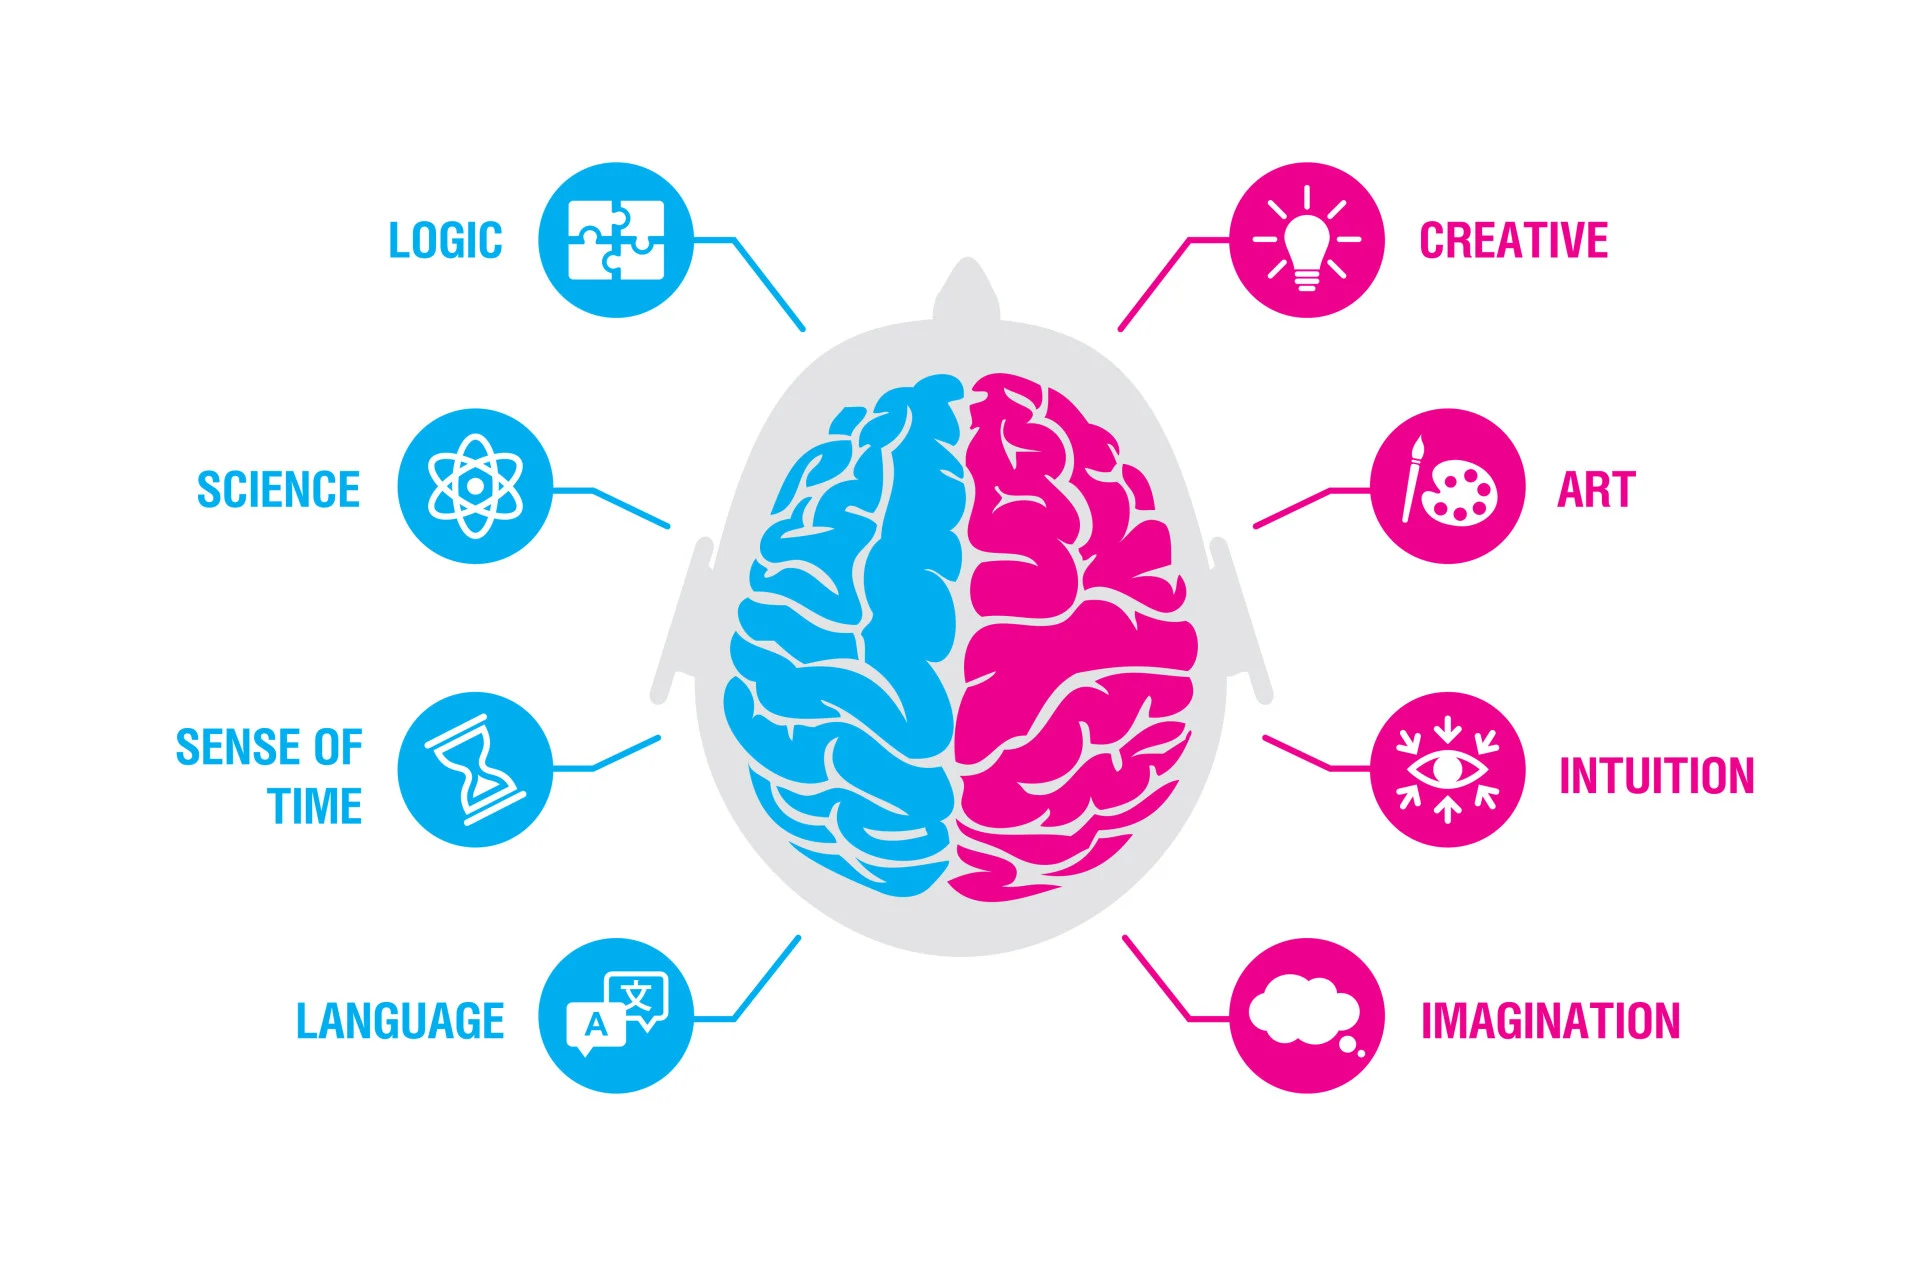
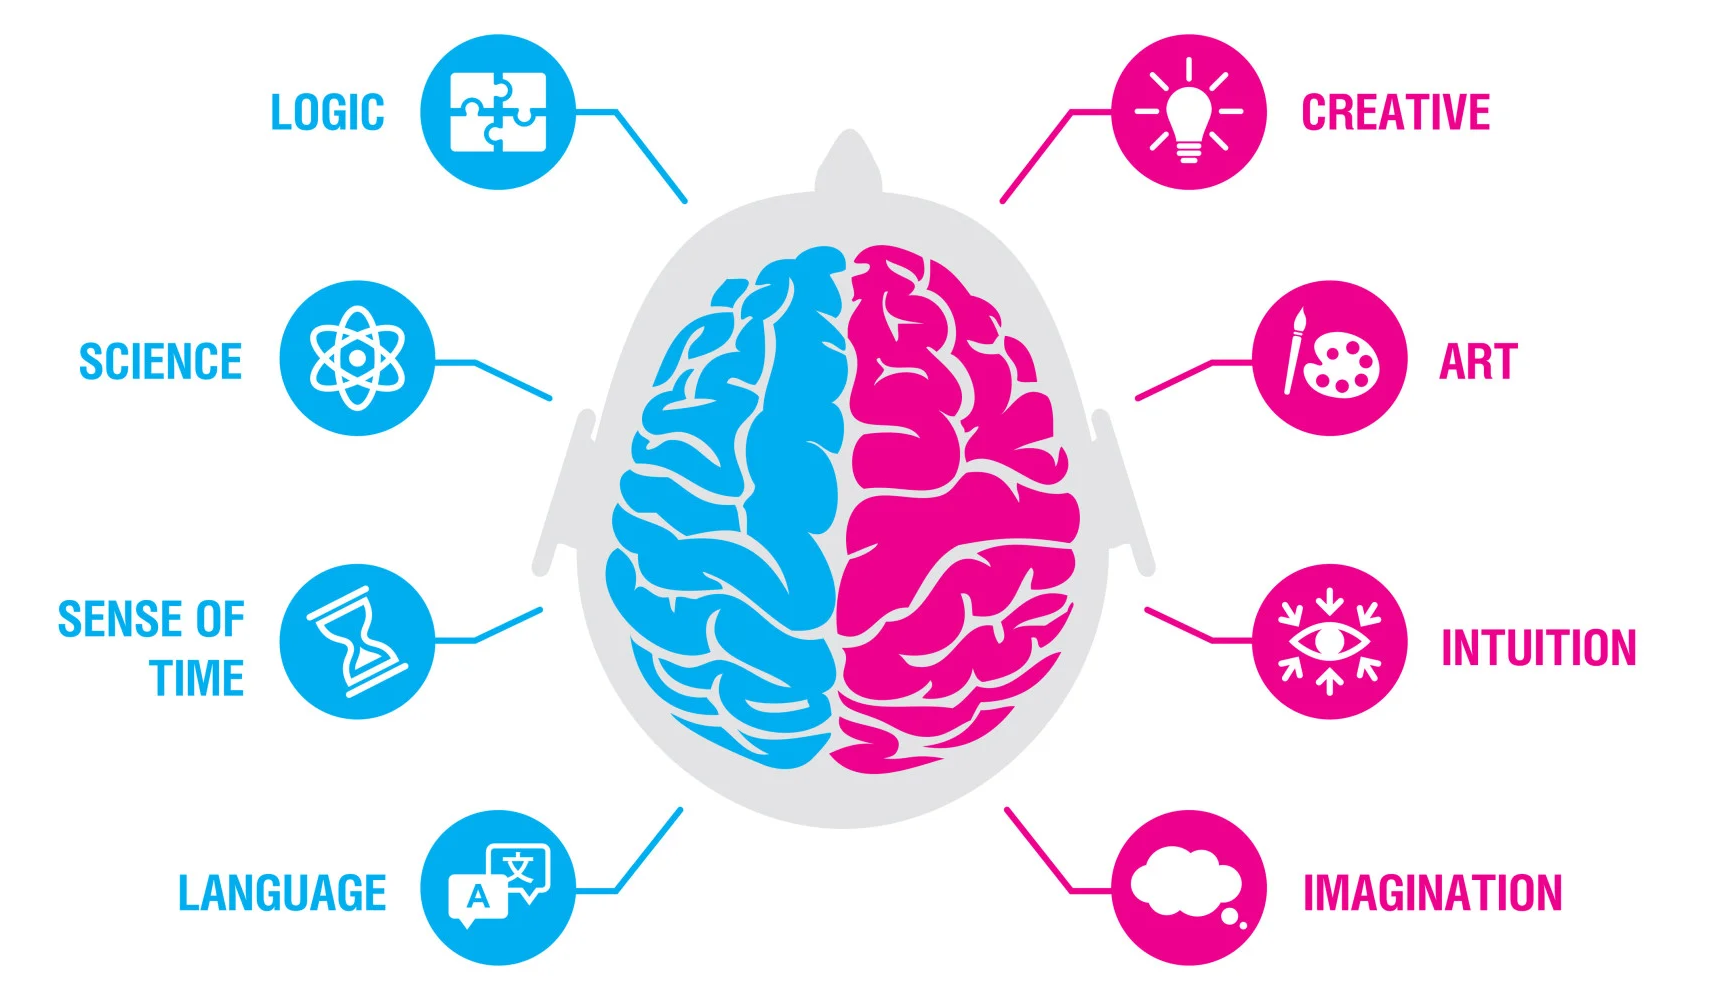
Test's details change

diff --git a/src/screens/homeComponentsDetail/TrueColorsDetail.jsx b/src/screens/homeComponentsDetail/TrueColorsDetail.jsx
@@ -10,7 +10,41 @@ export default function TrueColors() {
       <img src={image} className="img-detail align-center" />
 
       <div className="detail-txt font-20 margin-top-2rem">
-        <span className="bold-txt">Bài kiểm tra tính cách True Colors</span> đặt ra một loạt câu hỏi để đánh giá sở thích và không thích của bạn. Bài kiểm tra sau đó sẽ đánh giá tính cách của bạn là một trong bốn kiểu màu xanh lam, xanh lá, cam hoặc vàng. Bạn có thể là sự kết hợp của hai màu, nhưng thường thì một học sinh sẽ thể hiện một màu chính. Theo quy tắc chung, bạn nên nhận ra những thuộc tính mạnh mẽ của mình và ghi nhớ những thuộc tính khiến người khác khó chịu.
+        <span className="bold-txt">Bài kiểm tra tính cách True Colors</span> - được Don Lowry phát triển vào năm 1978 dựa trên công trình của David Keirsey và Chỉ số loại hình Myers-Briggs (MBTI) - là một công cụ đánh giá tính cách nhằm giúp mọi người hiểu rõ hơn về bản thân và người khác bằng cách phân loại tính cách thành bốn màu chính: Xanh Lam, Xanh Lá, Cam và Vàng. Mỗi màu đại diện cho một tập hợp riêng biệt các đặc điểm, giá trị và sở thích.
+      </div>
+
+      <div className="detail-txt font-20">
+        Bài kiểm tra tính cách True Colors thường được sử dụng để phát triển bản thân và tự nhận thức, giúp mọi người hiểu rõ hơn về điểm mạnh, điểm yếu và sở thích giao tiếp của chính mình. Bằng cách xác định màu sắc chủ đạo của mình, mọi người có thể đưa ra quyết định sáng suốt hơn trong nhiều khía cạnh của cuộc sống, chẳng hạn như lựa chọn nghề nghiệp, mối quan hệ và đặt mục tiêu.
+      </div>
+
+      <div className="detail-txt font-20">
+        Mỗi kết quả màu sắc trong bài kiểm tra True Colors được cho là tương ứng với một số đặc điểm tính cách nhất định:
+        <ul>
+          <li>
+            <span className="bold-txt">
+              Màu Cam:
+            </span>{" "}
+            Đại diện cho sự năng động và phấn khích: là người yêu thích sự vui vẻ, hài hước, dí dỏm và quyến rũ.
+          </li>
+          <li>
+            <span className="bold-txt">
+              Màu Xanh Lá:
+            </span>{" "}
+            Đại diện cho các hệ thống có trật tự, giống như những gì tìm thấy trong tự nhiên: là người khát khao tri thức, logic, trí tuệ, triết lý.
+          </li>
+          <li>
+            <span className="bold-txt">
+              Màu Xanh Lam:
+            </span>{" "}
+            Đại diện cho cường độ cảm xúc và tâm linh: là người thích giao tiếp xã hội, luôn tìm cách kết nối với người khác và có thể chủ động tìm cách giải quyết khi có xung đột.
+          </li>
+          <li>
+            <span className="bold-txt">
+              Màu vàng:
+            </span>{" "}
+            Đại diện cho sự chân thực, tin cậy và truyền thống: là người thích trật tự, thống nhất, coi trọng sự chính trực và trách nhiệm, có thể là những người bạn/nhân viên đáng tin cậy.
+          </li>
+        </ul>
       </div>
 
       <Link to="/trueColors" className="primary-btn font-18 align-center margin-top-2rem">Kiểm tra ngay</Link>

diff --git a/src/screens/homeComponentsDetail/LearningStyleDetail.jsx b/src/screens/homeComponentsDetail/LearningStyleDetail.jsx
@@ -1,9 +1,39 @@
 import { Link } from "react-router-dom";
 
+import image from "../../assets/images/learningStyle.png"
+
 export default function LearningStyle() {
   return (
     <body className="body screen-block">
       <div className="screen-title">Trắc nghiệm 3 thiên hướng học tập</div>
+
+      <img src={image} className="img-detail align-center" />
+
+      <div className="detail-txt font-20 margin-top-2rem">
+        <span className="bold-txt">Trắc nghiệm 3 thiên hướng học tập Vak</span> là bài tập trắc nghiệm xác định thiên hướng học tập. Mô hình này cho rằng mỗi cá nhân sẽ có một cách học tập lí tưởng và đạt được các hiệu quả khác nhau. Khái niệm VAK lần đầu tiên được phát triển bởi các nhà tâm lí học và các chuyên gia giảng dạy trẻ em như Fernald, Keller, Orton, Gillingham, Stillman và Montessori từ những năm 1920.
+      </div>
+
+      <div className="detail-txt font-20">
+        Mô hình phong cách học tập VAK thông qua bài trắc nghiệm 20 câu hỏi để đánh giá phong cách học tập ưa thích, tìm ra tỉ lệ giữa 3 thiên hướng học tập bao gồm trực quan, thính giác và xúc giác. Sau đó, VAK tiếp tục thiết kế phương pháp học tập cũng như các loại trải nghiệm phù hợp cho từng cá nhân dựa trên kết quả tỉ lệ phần trăm đó.
+      </div>
+
+      <div className="detail-txt font-20">
+        Đặc điểm thiên hướng/ phong cách chính của VAK:
+        <ul>
+          <li>
+            <span className="bold-txt">Visual - trực quan:</span>{" "}
+            Liên quan đến việc sử dụng những thứ đã nhìn thấy hoặc quan sát được, bao gồm hình ảnh, sơ đồ, minh họa, màn hình, tài liệu phát tay, phim,... → Nhóm những bạn có thiên hướng học tốt thông qua việc quan sát, có khả năng xử lí thông tin tốt qua đọc biểu đồ và dựa trên hình ảnh minh họa để hiểu rõ khái niệm bài học.
+          </li>
+          <li>
+            <span className="bold-txt">Audiory - thính giác:</span>{" "}
+            Liên quan đến việc chuyển giao thông tin thông qua việc lắng nghe: từ được nói, của bản thân hoặc người khác, âm thanh và tiếng ồn → Nhóm những bạn có thiên hướng học tốt bằng âm thanh, lắng nghe thông tin qua các bài giảng trên lớp, hướng dẫn bằng lời.
+          </li>
+          <li>
+            <span className="bold-txt">Kinesthetic - xúc giác:</span>{" "}
+            Liên quan đến trải nghiệm thể chất bao gồm: chạm, cảm nhận, cầm nắm, thực hành → Nhóm những bạn có thiên hướng học tốt bằng hình thức hoạt động làm dự án, bài tập nhóm, tham gia trực tiếp các hoạt động trải nghiệm thực tế,... chủ yếu ứng dụng kiến thức từ các thí nghiệm, tự tay thực nghiệm để rút ra kiến thức.
+          </li>
+        </ul>
+      </div>
 
       <Link to="/learningStyle" className="primary-btn font-18 align-center margin-top-2rem">Kiểm tra ngay</Link>
     </body>

diff --git a/src/screens/homeComponentsDetail/5PerDetail.jsx b/src/screens/homeComponentsDetail/5PerDetail.jsx
@@ -5,12 +5,12 @@ import image from "../../assets/images/5per.png"
 export default function MBTI() {
   return (
     <body className="body screen-block">
-      <div className="screen-title">Trắc nghiệm tính cách Big 5</div>
+      <div className="screen-title">Trắc nghiệm 5 yếu tố tính cách</div>
 
       <img src={image} className="img-detail align-center" />
 
       <div className="detail-txt font-20 margin-top-2rem">
-        Trắc nghiệm Big Five Personality (hay còn gọi là trắc nghiệm năm yếu tố tính cách) là một phương pháp được sử dụng rộng rãi trong tâm lý học để đo lường 5 đặc điểm tính cách chủ yếu của một cá nhân. Những đặc điểm này bao gồm:
+        <span className="bold-txt">Trắc nghiệm Big Five Personality (hay còn gọi là trắc nghiệm 5 yếu tố tính cách)</span> là một phương pháp được sử dụng rộng rãi trong tâm lý học để đo lường 5 đặc điểm tính cách chủ yếu của một cá nhân. Những đặc điểm này bao gồm:
       </div>
 
       <div className="detail-txt font-20">
@@ -34,7 +34,7 @@ export default function MBTI() {
       </div>
 
       <div className="detail-txt font-20">
-        Bài kiểm tra Big Five Personality được thiết kế để giúp bạn hiểu rõ hơn về những đặc điểm tính cách của mình và cách chúng ảnh hưởng đến hành vi, mối quan hệ và cách bạn tương tác với thế giới xung quanh. 
+        Trắc nghiệm năm yếu tố tính cách được thiết kế để giúp bạn hiểu rõ hơn về những đặc điểm tính cách của mình và cách chúng ảnh hưởng đến hành vi, mối quan hệ và cách bạn tương tác với thế giới xung quanh. 
         Sau khi hoàn thành bài kiểm tra, bạn sẽ nhận được điểm số cho từng yếu tố và đánh giá mức độ của các đặc điểm tính cách này.
       </div>
 

diff --git a/src/screens/homeComponentsDetail/MBTIDetail.jsx b/src/screens/homeComponentsDetail/MBTIDetail.jsx
@@ -10,11 +10,13 @@ export default function MBTI() {
       <img src={image} className="img-detail align-center" />
 
       <div className="detail-txt font-20 margin-top-2rem">
-        Trắc nghiệm MBTI (Myers-Briggs Type Indication) là một hệ thống phân
-        loại tính cách được phát triển từ những nghiên cứu về nhận thức và tính
-        cách của nhà tâm lý học Carl Jung - bác sĩ tâm thần học người Thụy Sĩ,
-        được hai nhà khoa học Katharine Cook Briggs và Isabel Briggs Myers hoàn
-        thiện vào năm 1962.
+        <span className="bold-txt">
+          Trắc nghiệm MBTI (Myers-Briggs Type Indication)
+        </span>{" "}
+        là một hệ thống phân loại tính cách được phát triển từ những nghiên cứu
+        về nhận thức và tính cách của nhà tâm lý học Carl Jung - bác sĩ tâm thần
+        học người Thụy Sĩ, được hai nhà khoa học Katharine Cook Briggs và Isabel
+        Briggs Myers hoàn thiện vào năm 1962.
       </div>
 
       <div className="detail-txt font-20">
@@ -54,8 +56,13 @@ export default function MBTI() {
         và đào tạo, đối phó với căng thẳng, giải quyết xung đột, đàm phán, hướng
         dẫn nghề nghiệp, xây dựng các mối quan hệ cá nhân tốt hơn.
       </div>
-      
-      <Link to="/mbti" className="primary-btn font-18 align-center margin-top-2rem">Kiểm tra ngay</Link>
+
+      <Link
+        to="/mbti"
+        className="primary-btn font-18 align-center margin-top-2rem"
+      >
+        Kiểm tra ngay
+      </Link>
     </body>
   );
 }

diff --git a/src/screens/homeComponentsDetail/EqDetail.jsx b/src/screens/homeComponentsDetail/EqDetail.jsx
@@ -10,7 +10,7 @@ export default function EQ() {
       <img src={image} className="img-detail align-center" />
 
       <div className="detail-txt font-20 margin-top-2rem">
-      EQ hay trí tuệ cảm xúc, được dùng để đo lường khả năng sáng tạo, trí tưởng tượng của một người. Chỉ số EQ thể hiện khả năng nhận định, quản lý và điều chỉnh cảm xúc cá nhân và người khác. Thông thường, chỉ số cảm xúc sẽ được đo lường thông qua các bài test EQ.
+        <span className="bold-txt">EQ hay trí tuệ cảm xúc</span>, được dùng để đo lường khả năng sáng tạo, trí tưởng tượng của một người. Chỉ số EQ thể hiện khả năng nhận định, quản lý và điều chỉnh cảm xúc cá nhân và người khác. Thông thường, chỉ số cảm xúc sẽ được đo lường thông qua các bài test EQ.
       </div>
 
       <div className="detail-txt font-20">
@@ -18,7 +18,7 @@ export default function EQ() {
       </div>
 
       <div className="detail-txt font-20">
-      Chỉ số EQ bao nhiêu là cao? Chỉ số EQ 80 là cao hay thấp? Chỉ số EQ 120 là cao hay thấp? Vậy chỉ số EQ trung bình của một người là bao nhiêu? Đối với bài test EQ của trang web sẽ có thang điểm như sau:
+      Đối với bài test EQ của trang web sẽ có thang điểm như sau:
         <ul>
           <li>
             <span className="bold-txt">

diff --git a/src/screens/homeComponentsDetail/WorkStylesDetail.jsx b/src/screens/homeComponentsDetail/WorkStylesDetail.jsx
@@ -9,7 +9,7 @@ export default function WorkStylesDetail() {
       <img src={image} className="img-detail align-center" alt="Work Styles" />
 
       <div className="detail-txt font-20 margin-top-2rem">
-        Bài kiểm tra Phong Cách Làm Việc giúp bạn nhận biết phong cách làm việc chủ đạo của bản thân, cách bạn tiếp cận công việc và tương tác với đồng nghiệp. Qua đó, bạn sẽ hiểu rõ hơn về điểm mạnh và cách tối ưu hóa hiệu quả làm việc của mình.
+        <span className="bold-txt">Bài kiểm tra Phong Cách Làm Việc</span> giúp bạn nhận biết phong cách làm việc chủ đạo của bản thân, cách bạn tiếp cận công việc và tương tác với đồng nghiệp. Qua đó, bạn sẽ hiểu rõ hơn về điểm mạnh và cách tối ưu hóa hiệu quả làm việc của mình.
       </div>
 
       <div className="detail-txt font-20">

diff --git a/src/screens/homeComponentsDetail/CareerClusterDetail.jsx b/src/screens/homeComponentsDetail/CareerClusterDetail.jsx
@@ -10,7 +10,7 @@ export default function CC() {
       <img src={image} className="img-detail align-center" />
 
       <div className="detail-txt font-20 margin-top-2rem">
-        Bài trắc nghiệm khám phá năng lực nghề nghiệp – Career Clusters Interest Survey được Trung tâm hướng nghiệp và công nghệ Oklahama Hoa Kỳ (Career Clusters Interest Survey, Oklahoma Department of Career and Technology Education) xây dựng dựa trên tư liệu của tổ chức Advance CTE (Mỹ).
+        <span className="bold-txt">Bài trắc nghiệm khám phá năng lực nghề nghiệp – Career Clusters Interest Survey</span> được Trung tâm hướng nghiệp và công nghệ Oklahama Hoa Kỳ (Career Clusters Interest Survey, Oklahoma Department of Career and Technology Education) xây dựng dựa trên tư liệu của tổ chức Advance CTE (Mỹ).
       </div>
 
       <div className="detail-txt font-20">

diff --git a/src/screens/homeComponentsDetail/IqDetail.jsx b/src/screens/homeComponentsDetail/IqDetail.jsx
@@ -10,7 +10,7 @@ export default function MBTI() {
       <img src={image} className="img-detail align-center" />
 
       <div className="detail-txt font-20 margin-top-2rem">
-        Chỉ số thông minh IQ là từ viết tắt của từ <span className="bold-txt">Intelligence Quotient</span> thường được xem là có liên quan mật thiết tới thành công của một người trong cuộc sống, trong công việc và trong vấn đề học tập của mỗi con người.
+      <span className="bold-txt">Chỉ số thông minh IQ</span> là từ viết tắt của từ <span className="bold-txt">Intelligence Quotient</span> thường được xem là có liên quan mật thiết tới thành công của một người trong cuộc sống, trong công việc và trong vấn đề học tập của mỗi con người.
       </div>
 
       <div className="detail-txt font-20">

diff --git a/src/screens/TrueColorsTest.jsx b/src/screens/TrueColorsTest.jsx
@@ -36,6 +36,7 @@ export default function TrueColorsTest() {
   const result = async () => {
     let unfinished = 0;
     let answer = document.querySelectorAll('input[type="radio"]');
+    
     // Check if all questions are answered
     for (let i = 0; i < answer.length; i++) {
       if (answer[i].checked === true) {
@@ -150,8 +151,11 @@ export default function TrueColorsTest() {
   return (
     <>
       <div className="progress-card" id="progress-card">
-        <div className="progress-card-title">Trắc nghiệm Màu sắc</div>
+        <div className="progress-card-title">Bài kiểm tra tính cách True Colors</div>
         <div className="text-bar">
+          <span>
+            Đã hoàn thành: {countt}/{answer.length / 4} câu
+          </span>
           <span className="time-clock">Thời gian: {time}</span>
         </div>
         <ProgressBar

diff --git a/src/screens/HomeScreen.jsx b/src/screens/HomeScreen.jsx
@@ -90,7 +90,7 @@ function HomeScreen() {
           {/* Big Five, Work Styles */}
           <div className="flex-row card-margin-top">
             <div className="home-card width-50 card-margin-right flex-col">
-              <div className="card-title">Trắc nghiệm tính cách Big Five</div>
+              <div className="card-title">Trắc nghiệm 5 yếu tố tính cách</div>
               <div className="card-content">Trắc nghiệm Big Five đo lường 5 yếu tố tính cách chính của con người: Extraversion, Agreeableness, Conscientiousness, Neuroticism và Openness to Experience.</div>
               <div className="margin-bottom-2rem"><Link className="secondary-outline-btn" to="/fivePerDetail">Tìm hiểu thêm</Link></div>
             </div>

diff --git a/src/screens/5PerTest.jsx b/src/screens/5PerTest.jsx
@@ -198,7 +198,7 @@ export default function BigFiveTest() {
   return (
     <>
       <div className="progress-card" id="progress-card">
-        <div className="progress-card-title">Bài Kiểm Tra Big Five</div>
+        <div className="progress-card-title">Trắc nghiệm 5 yếu tố tính cách</div>
         <div className="text-bar">
           <span>
             Đã hoàn thành: {countt}/{list.length} câu

diff --git a/src/components/Dropdown.jsx b/src/components/Dropdown.jsx
@@ -36,7 +36,7 @@ const profileMenuUser = [
     to: "/learningStyle",
   },
   {
-    label: "Trắc nghiệm tính cách Big Five",
+    label: "Trắc nghiệm 5 yếu tố tính cách",
     to: "/fivePer",
   },
   {
